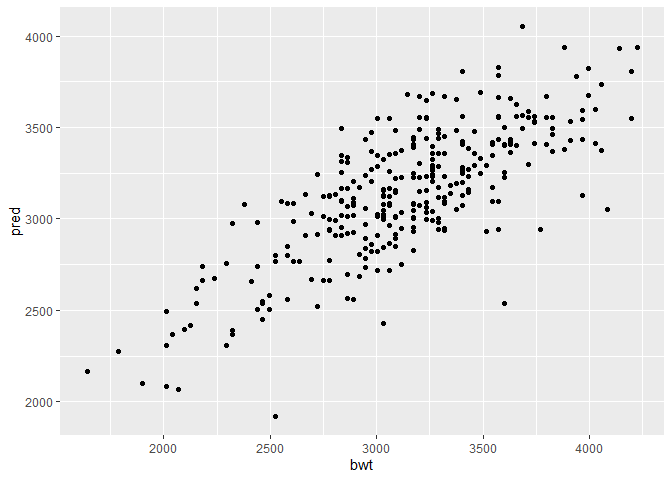
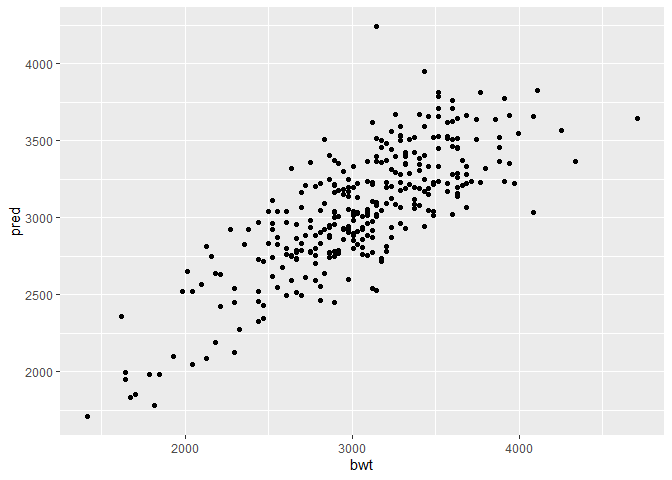
proofing

diff --git a/p8105_hw6.md b/p8105_hw6.md
@@ -86,7 +86,7 @@ My first thought was to include babies length, gestational age, mothers
 race (minority stress has been shown to impact birth weight),
 malformations, previous number of low weight births, and cigarettes
 smoked in my model. However, malformations and previous number of low
-weight babies did not have wnough variation.
+weight babies did not have enough variation.
 
 ``` r
 train_df = sample_n(birthweight_df, 320)
@@ -101,7 +101,7 @@ my_mod = lm(bwt ~ blength + mrace + gaweeks + smoken, data = train_df)
 rmse(my_mod, train_df)
 ```
 
-    ## [1] 298.3575
+    ## [1] 309.9099
 
 ``` r
 train_df %>% 
@@ -122,7 +122,7 @@ train_df %>%
 ```
 
 ![](p8105_hw6_files/figure-gfm/unnamed-chunk-5-2.png)<!-- --> The
-residuals look good.
+residuals look good.Normally distributed.
 
 Other models:
 
@@ -138,16 +138,16 @@ train_df %>%
     ## # A tibble: 2,880 x 23
     ##    model babysex bhead blength   bwt delwt fincome frace gaweeks malform
     ##    <chr> <fct>   <dbl>   <dbl> <dbl> <dbl>   <dbl> <dbl>   <dbl>   <dbl>
-    ##  1 my_m~ 1          35      49  3090   157      25     2    39.4       0
-    ##  2 my_m~ 1          35      52  3799   147      15     2    44.3       0
-    ##  3 my_m~ 2          32      49  2863   150      55     2    36.9       0
-    ##  4 my_m~ 1          34      51  2892   147      45     2    38.9       0
-    ##  5 my_m~ 1          35      51  3544   142      55     1    39.7       0
-    ##  6 my_m~ 2          33      52  3062   185      45     2    40         0
-    ##  7 my_m~ 1          34      52  2863   138      35     4    39.9       0
-    ##  8 my_m~ 1          33      50  3260   155      25     2    35.9       0
-    ##  9 my_m~ 1          36      54  3997   132      65     1    42         0
-    ## 10 my_m~ 1          34      53  3629   154      75     1    39.3       0
+    ##  1 my_m~ 2          33      50  3260   154       5     2    40.1       0
+    ##  2 my_m~ 1          33      50  3090   127      25     2    37.6       0
+    ##  3 my_m~ 2          34      50  3317   147      35     1    39.7       0
+    ##  4 my_m~ 1          35      48  3090   125      45     1    38.4       0
+    ##  5 my_m~ 1          34      51  3685   150      85     1    37.4       0
+    ##  6 my_m~ 1          34      47  2637   114      85     1    38.9       0
+    ##  7 my_m~ 1          35      52  3232   121      75     3    42.3       0
+    ##  8 my_m~ 1          33      48  2523   150      65     2    34.6       0
+    ##  9 my_m~ 2          33      49  3062   126      25     2    39.4       0
+    ## 10 my_m~ 2          33      46  2041   139      35     1    36.1       0
     ## # ... with 2,870 more rows, and 13 more variables: menarche <dbl>,
     ## #   mheight <dbl>, momage <dbl>, mrace <fct>, parity <dbl>, pnumlbw <dbl>,
     ## #   pnumsga <dbl>, ppbmi <dbl>, ppwt <dbl>, smoken <dbl>, wtgain <dbl>,
@@ -181,9 +181,9 @@ cv_df %>%
 
 ![](p8105_hw6_files/figure-gfm/unnamed-chunk-6-1.png)<!-- --> I am
 surprised that the model including sex was so much better than the other
-too. Conceptually, it didn’t seem like a meaningful predictor to me.
+two. Conceptually, it didn’t seem like a meaningful predictor to me.
 Perhaps it is the head circumference too. Maybe it is a good predictor
-of physical development
+of gestational physical development
 
 ## Problem 3
 
@@ -234,10 +234,4 @@ weather_bootstrap_results %>% knitr::kable()
 
 | r2\_ci\_lower | r2\_ci\_upper | calc\_ci\_lower | calc\_ci\_upper |
 | ------------: | ------------: | --------------: | --------------: |
-|      2.707497 |      3.141044 |        1.964994 |         2.05836 |
-
-``` r
-colnames(weather_bootstrap_results)
-```
-
-    ## [1] "r2_ci_lower"   "r2_ci_upper"   "calc_ci_lower" "calc_ci_upper"
+|      2.703294 |       3.13689 |        1.964936 |        2.059063 |
